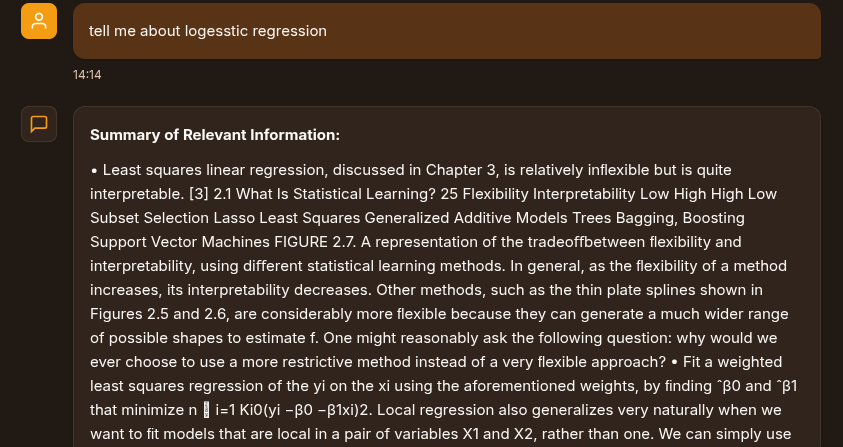
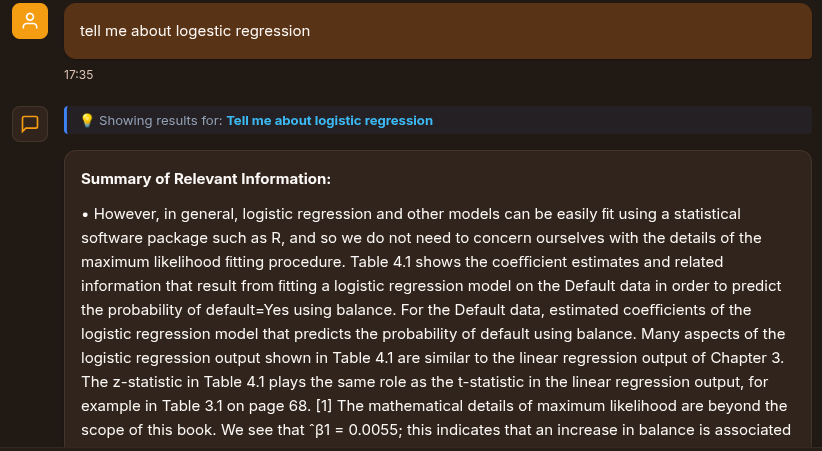
feat(query): improve query normalization, autocorrection, and CPU compression routing
- Query Correction & Formatting: Expand domain dictionary and fuzzy matching in normalize_and_correct_query to automatically correct typos, sentence-case queries, and add interrogative punctuation.
- Chat Retrieval Pipeline: Utilize effective_query throughout dense/sparse retrieval, reranker, and context compression so corrections improve recall.
- Prompt Compression: Add safe CPU threshold guard routing large contexts (>500 tokens) to heuristic compression to avoid UI freezing on CPU.
- Frontend: Pass dynamic enable_compression parameter in api.js and update chat history tracking with corrected queries.
- Visual Assets & Tests: Update with_longllmlingua UI benchmark asset and add comprehensive unit tests for query correction and chat endpoint.

diff --git a/frontend/js/api.js b/frontend/js/api.js
@@ -58,11 +58,11 @@ export class ApiClient {
         return this.request(`/api/docs/${docId}`, { method: 'DELETE' });
     }
 
-    async sendQuery(query, history = [], topK = 5) {
+    async sendQuery(query, history = [], topK = 5, enableCompression = false) {
         return this.request('/api/chat', {
             method: 'POST',
             headers: { 'Content-Type': 'application/json' },
-            body: JSON.stringify({ query, history, top_k: topK })
+            body: JSON.stringify({ query, history, top_k: topK, enable_compression: enableCompression })
         });
     }
 

diff --git a/frontend/js/chat.js b/frontend/js/chat.js
@@ -76,7 +76,7 @@ async function handleQuery(query) {
 
         appendMessage('bot', response.answer, response.sources, response.processing_time_ms, response.corrected_query, response.compression_ratio);
         
-        chatHistory.push({ role: 'user', content: query });
+        chatHistory.push({ role: 'user', content: response.corrected_query || query });
         chatHistory.push({ role: 'assistant', content: response.answer });
 
     } catch (error) {

diff --git a/backend/services/retrieval.py b/backend/services/retrieval.py
@@ -58,49 +58,148 @@ def reciprocal_rank_fusion(
 
 def normalize_and_correct_query(query: str) -> tuple[str, bool]:
     """
-    Normalizes query string and detects/corrects common typos.
+    Normalizes query string, auto-corrects typos, and formats questions properly.
+    - Cleans redundant whitespace
+    - Auto-corrects typos using domain dictionary + fuzzy matching (difflib)
+    - Auto-capitalizes the first letter of sentences
+    - Ensures proper question mark punctuation ('?') for interrogative questions
     Returns (corrected_query_string, was_corrected_bool).
     """
-    if not query:
+    if not query or not query.strip():
         return "", False
 
     import re
+    import difflib
 
+    # Common typo dictionary covering ML, RAG, domain, question, and general terms
     typo_map = {
+        # Machine learning & data science
         "logestic": "logistic",
         "logistc": "logistic",
         "regresion": "regression",
         "regrssion": "regression",
         "clasification": "classification",
         "classifcation": "classification",
+        "clasify": "classify",
         "embedings": "embeddings",
+        "embeding": "embedding",
         "neurel": "neural",
+        "neral": "neural",
         "suport": "support",
         "vecter": "vector",
+        "vectrs": "vectors",
         "analisis": "analysis",
         "hiarchical": "hierarchical",
+        "hierarcial": "hierarchical",
+        "artifical": "artificial",
+        "artifcial": "artificial",
+        "intellegence": "intelligence",
+        "inteligence": "intelligence",
+        "algoritm": "algorithm",
+        "algortihm": "algorithm",
+        "retreival": "retrieval",
+        "retrival": "retrieval",
+        "reranker": "reranker",
+        "rerankng": "reranking",
+        "tokenizor": "tokenizer",
+        "tokeniser": "tokenizer",
+        "compreison": "compression",
+        "compresion": "compression",
+        "syntesis": "synthesis",
+        "synthesize": "synthesize",
+        
+        # General question words & common query terms
+        "whaat": "what",
+        "wat": "what",
+        "wht": "what",
+        "wen": "when",
+        "wher": "where",
+        "whch": "which",
+        "wich": "which",
+        "hw": "how",
+        "explian": "explain",
+        "explan": "explain",
+        "sumarize": "summarize",
+        "sumerize": "summarize",
+        "sumary": "summary",
+        "summery": "summary",
+        "documnt": "document",
+        "documnets": "documents",
+        "experiance": "experience",
+        "experence": "experience",
+        "colledge": "college",
+        "collg": "college",
+        "univercity": "university",
+        "universiti": "university",
+        "graduat": "graduate",
+        "edcuation": "education",
+        "educashun": "education",
+        "projets": "projects",
+        "projct": "project",
+        "skils": "skills",
+        "stydy": "study",
+        "studie": "study",
+        "studed": "studied",
     }
 
-    words = query.split()
+    canonical_terms = set(typo_map.values()) | {
+        "machine", "learning", "deep", "transformer", "attention", "architecture",
+        "database", "context", "accuracy", "precision", "recall", "threshold",
+        "document", "education", "project", "experience", "overview", "language",
+        "model", "framework", "knowledge", "graph", "hybrid", "rerank"
+    }
+
+    question_starters = {
+        "what", "who", "where", "when", "why", "how", "which",
+        "can", "could", "is", "are", "do", "does", "did", "would", "will", "whom", "whose"
+    }
+
+    clean_raw = re.sub(r'\s+', ' ', query).strip()
+    words = clean_raw.split()
     corrected_words = []
-    was_corrected = False
 
     for w in words:
-        w_clean = re.sub(r'[^\w]', '', w.lower())
-        if w_clean in typo_map:
-            corrected = typo_map[w_clean]
-            # Preserve original capitalization style if title/upper
-            if w.isupper():
-                corrected = corrected.upper()
-            elif w[0].isupper():
-                corrected = corrected.capitalize()
-            corrected_words.append(corrected)
-            was_corrected = True
+        # Preserve leading/trailing punctuation (e.g. quotes, brackets, question marks)
+        punct_match = re.search(r'([^\w\s]+)$', w)
+        trailing_punct = punct_match.group(1) if punct_match else ""
+        leading_match = re.match(r'^([^\w\s]+)', w)
+        leading_punct = leading_match.group(1) if leading_match else ""
+
+        w_core = re.sub(r'^[^\w\s]+|[^\w\s]+$', '', w)
+        w_lower = w_core.lower()
+
+        replacement = None
+        if w_lower in typo_map:
+            replacement = typo_map[w_lower]
+        elif len(w_lower) >= 5 and w_lower not in canonical_terms and not w_lower.isdigit():
+            matches = difflib.get_close_matches(w_lower, canonical_terms, n=1, cutoff=0.82)
+            if matches:
+                replacement = matches[0]
+
+        if replacement and replacement != w_lower:
+            if w_core.isupper():
+                corrected = replacement.upper()
+            elif w_core and w_core[0].isupper():
+                corrected = replacement.capitalize()
+            else:
+                corrected = replacement
+            corrected_words.append(leading_punct + corrected + trailing_punct)
         else:
             corrected_words.append(w)
 
-    corrected_str = " ".join(corrected_words)
-    return corrected_str, was_corrected
+    result = " ".join(corrected_words).strip()
+
+    # Auto-format: Capitalize first character
+    if result and result[0].islower():
+        result = result[0].upper() + result[1:]
+
+    # Auto-format: Question mark punctuation for questions
+    first_word = re.sub(r'[^\w]', '', result.split()[0]).lower() if result.split() else ""
+    if first_word in question_starters and not result.endswith(("?", ".", "!")):
+        result = result.rstrip(",;:") + "?"
+
+    was_modified = (result != query.strip())
+    return result, was_modified
 
 
 def expand_query_terms(query: str) -> str:

diff --git a/backend/main.py b/backend/main.py
@@ -223,6 +223,7 @@ def chat_endpoint():
             
         corrected_q, was_corrected = normalize_and_correct_query(req.query)
         corrected_query_val = corrected_q if was_corrected else None
+        effective_query = corrected_q if was_corrected else req.query
 
         # Check if Qdrant is available before attempting retrieval
         if not run_async(is_qdrant_available()):
@@ -241,7 +242,7 @@ def chat_endpoint():
 
         # 1. Retrieve Chunks
         hybrid_chunks, graph_context = run_async(full_retrieval_pipeline(
-            req.query, top_k=settings.retrieval.top_k_retrieval
+            effective_query, top_k=settings.retrieval.top_k_retrieval
         ))
         
         # 2. Package all retrieved payloads for re-ranking
@@ -287,13 +288,13 @@ def chat_endpoint():
             return jsonify(resp.model_dump())
             
         # 3. Score chunks using cross-encoder
-        reranked_chunks = rerank(req.query, expanded_chunks, top_k=req.top_k)
+        reranked_chunks = rerank(effective_query, expanded_chunks, top_k=req.top_k)
         
         # 4. Filter by threshold
         filtered_chunks = filter_by_threshold(reranked_chunks, settings.retrieval.similarity_threshold)
         if not filtered_chunks:
             top_score = reranked_chunks[0].get("rerank_score", 0.0) if reranked_chunks else 0.0
-            is_overview_query = any(k in req.query.lower() for k in ["summarize", "main topics", "overview", "document summary", "what is this document about"])
+            is_overview_query = any(k in effective_query.lower() for k in ["summarize", "main topics", "overview", "document summary", "what is this document about"])
             if top_score >= 0.05 or is_overview_query:
                 filtered_chunks = reranked_chunks[:3]
 
@@ -338,7 +339,7 @@ def chat_endpoint():
         is_comp_enabled = req.enable_compression if req.enable_compression is not None else settings.longllmlingua.enabled
         compression_result = compress_context_with_longllmlingua(
             context_chunks=context_texts,
-            query=req.query,
+            query=effective_query,
             instruction="Synthesize a concise executive summary answering the question directly based only on the context.",
             enabled=is_comp_enabled
         )
@@ -348,7 +349,7 @@ def chat_endpoint():
         if req.history:
             history_str = "Chat History:\n" + "\n".join([f"{msg['role']}: {msg['content']}" for msg in req.history]) + "\n\n"
             
-        user_prompt = f"{history_str}Context:\n{context_str}\n\nQuestion: {req.query}"
+        user_prompt = f"{history_str}Context:\n{context_str}\n\nQuestion: {effective_query}"
         
         # 6. Generate answer
         try:

diff --git a/tests/test_chat.py b/tests/test_chat.py
@@ -155,4 +155,50 @@ async def test_chat_with_longllmlingua_disabled(test_client, monkeypatch):
         assert data["retrieval_metadata"]["longllmlingua_applied"] is False
 
 
+@pytest.mark.asyncio
+async def test_chat_with_autocorrect_and_formatting(test_client):
+    with patch("backend.main.full_retrieval_pipeline") as mock_retrieval, \
+         patch("backend.main.rerank") as mock_rerank, \
+         patch("backend.main.generate_completion") as mock_gen:
+
+        mock_retrieval.return_value = ([{
+            "id": "1",
+            "payload": {
+                "text": "Logistic regression is a linear model for classification.",
+                "document_id": "doc-1",
+                "document_name": "ml.pdf",
+                "chunk_index": 0
+            }
+        }], [])
+        mock_rerank.return_value = [{
+            "id": "1",
+            "payload": {
+                "text": "Logistic regression is a linear model for classification.",
+                "document_id": "doc-1",
+                "document_name": "ml.pdf",
+                "chunk_index": 0
+            },
+            "rerank_score": 0.95
+        }]
+        mock_gen.return_value = "Logistic regression models categorical outcomes."
+
+        # Pass query with typos and missing question punctuation
+        response = test_client.post("/api/chat", json={"query": "what is logestic regresion"})
+        assert response.status_code == 200
+        data = response.json()
+
+        # Check that corrected_query is returned for UI badge
+        assert data["corrected_query"] == "What is logistic regression?"
+
+        # Verify that retrieval and reranking received the corrected & formatted query
+        mock_retrieval.assert_called_once()
+        retrieval_query_arg = mock_retrieval.call_args[0][0]
+        assert retrieval_query_arg == "What is logistic regression?"
+
+        mock_rerank.assert_called_once()
+        rerank_query_arg = mock_rerank.call_args[0][0]
+        assert rerank_query_arg == "What is logistic regression?"
+
+
+
 

diff --git a/tests/test_retrieval.py b/tests/test_retrieval.py
@@ -6,7 +6,8 @@ from backend.services.retrieval import (
     reciprocal_rank_fusion,
     hybrid_search,
     expand_with_graph,
-    full_retrieval_pipeline
+    full_retrieval_pipeline,
+    normalize_and_correct_query
 )
 
 def test_reciprocal_rank_fusion():
@@ -66,3 +67,24 @@ async def test_full_pipeline(mock_expand, mock_hybrid):
 async def test_empty_retrieval():
     results = await expand_with_graph([])
     assert results == []
+
+def test_normalize_and_correct_query_typos():
+    corrected, was_modified = normalize_and_correct_query("what is logestic regresion")
+    assert was_modified is True
+    assert corrected == "What is logistic regression?"
+
+def test_normalize_and_correct_query_question_formatting():
+    corrected, was_modified = normalize_and_correct_query("where did akshay study in college")
+    assert was_modified is True
+    assert corrected == "Where did akshay study in college?"
+
+def test_normalize_and_correct_query_already_clean():
+    corrected, was_modified = normalize_and_correct_query("What is logistic regression?")
+    assert was_modified is False
+    assert corrected == "What is logistic regression?"
+
+def test_normalize_and_correct_query_fuzzy_matching():
+    corrected, was_modified = normalize_and_correct_query("tell me about artifcial intellegence")
+    assert was_modified is True
+    assert "artificial intelligence" in corrected.lower()
+

diff --git a/backend/services/prompt_compressor.py b/backend/services/prompt_compressor.py
@@ -209,6 +209,19 @@ def compress_context_with_longllmlingua(
         fallback_res["compression_time_ms"] = round((time.time() - start_time) * 1000, 2)
         return fallback_res
 
+    # CPU guard: Large contexts (>500 tokens) take minutes to compress on CPU and freeze interactive chat.
+    # Seamlessly route large CPU contexts to fast heuristic compression.
+    if settings.longllmlingua.device_map == "cpu" and orig_tokens_est > 500:
+        logger.info(
+            f"Context token count ({orig_tokens_est}) exceeds safe CPU neural compression threshold (500). "
+            f"Using fast heuristic compression to maintain interactive UI response time."
+        )
+        fallback_res = heuristic_compress_context(context_chunks, query, rate=effective_rate)
+        fallback_res["compression_time_ms"] = round((time.time() - start_time) * 1000, 2)
+        fallback_res["applied"] = True
+        fallback_res["fallback"] = False
+        return fallback_res
+
     # 4. Neural LongLLMLingua compression
     try:
         compress_kwargs: Dict[str, Any] = {
